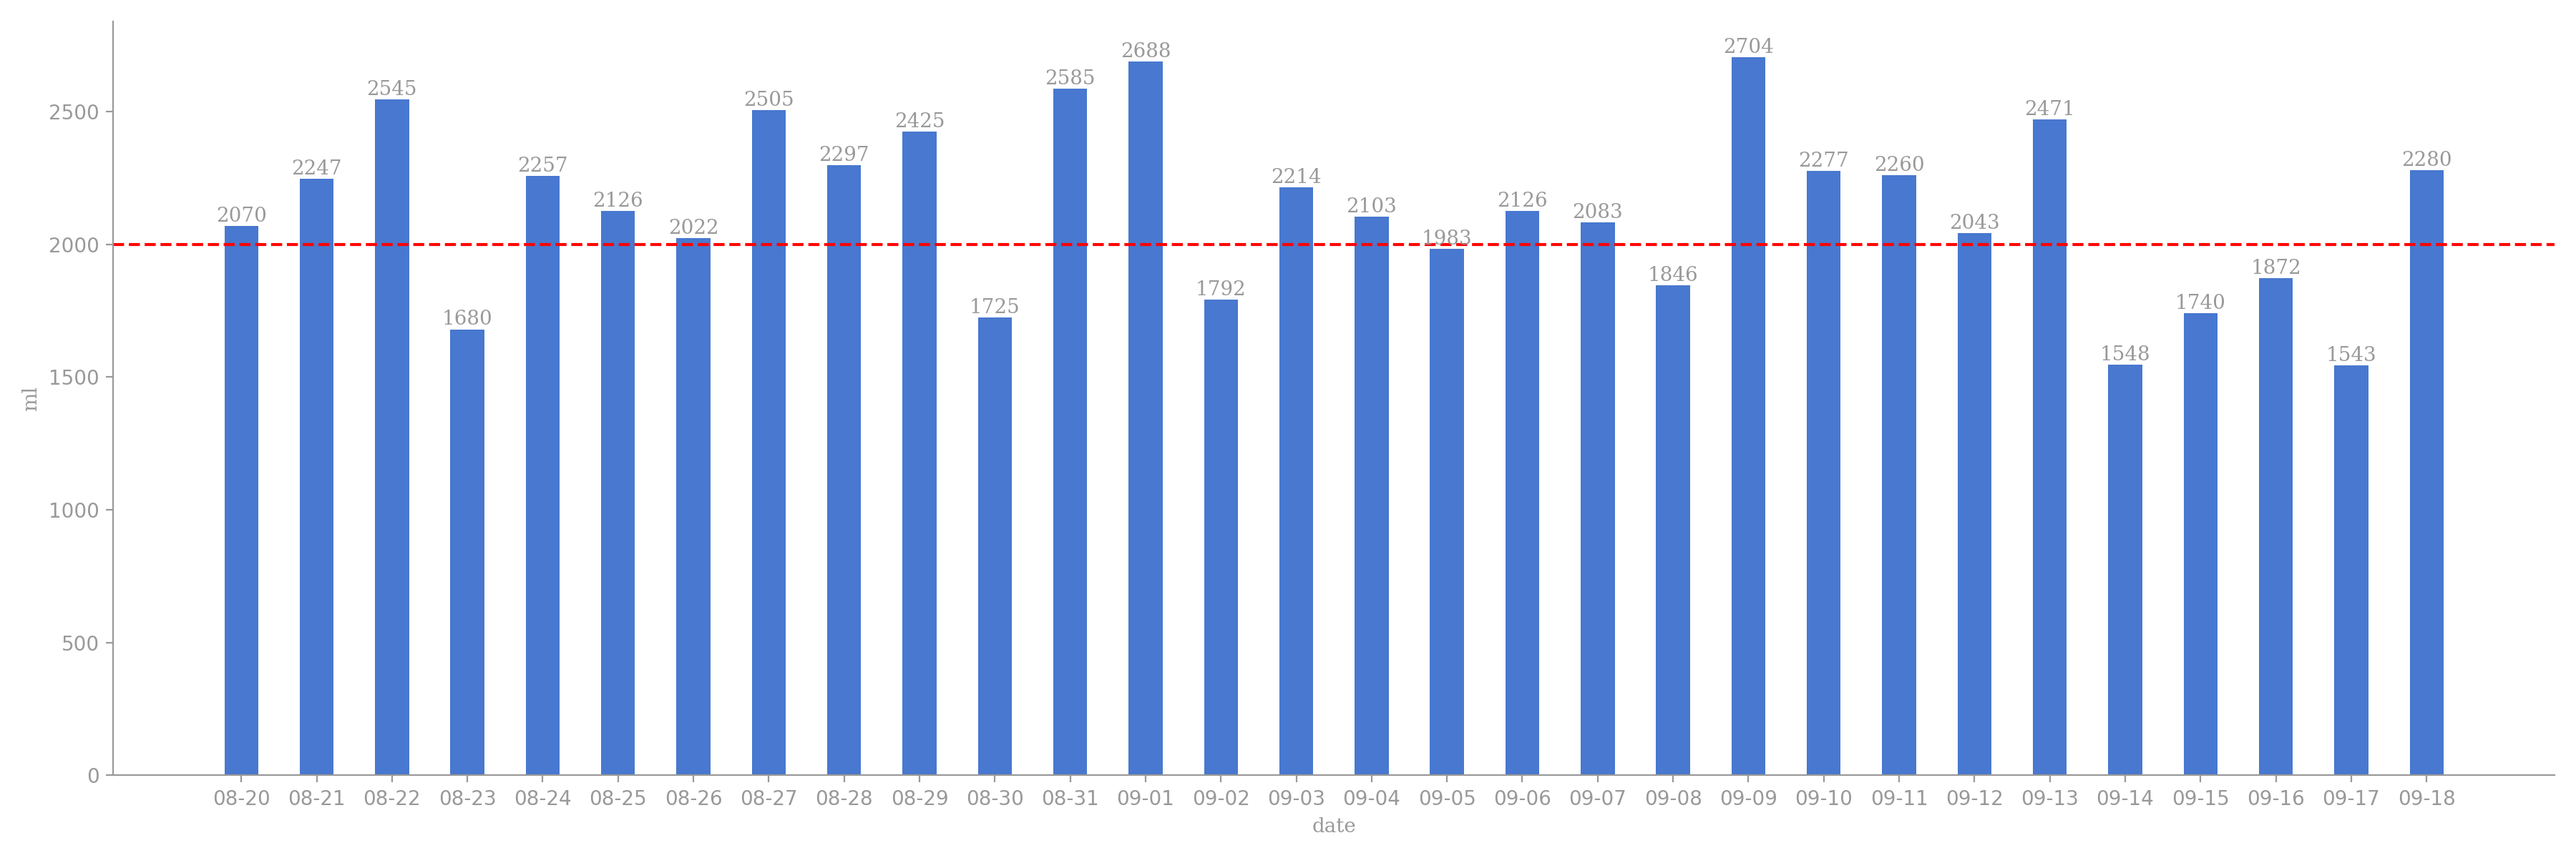
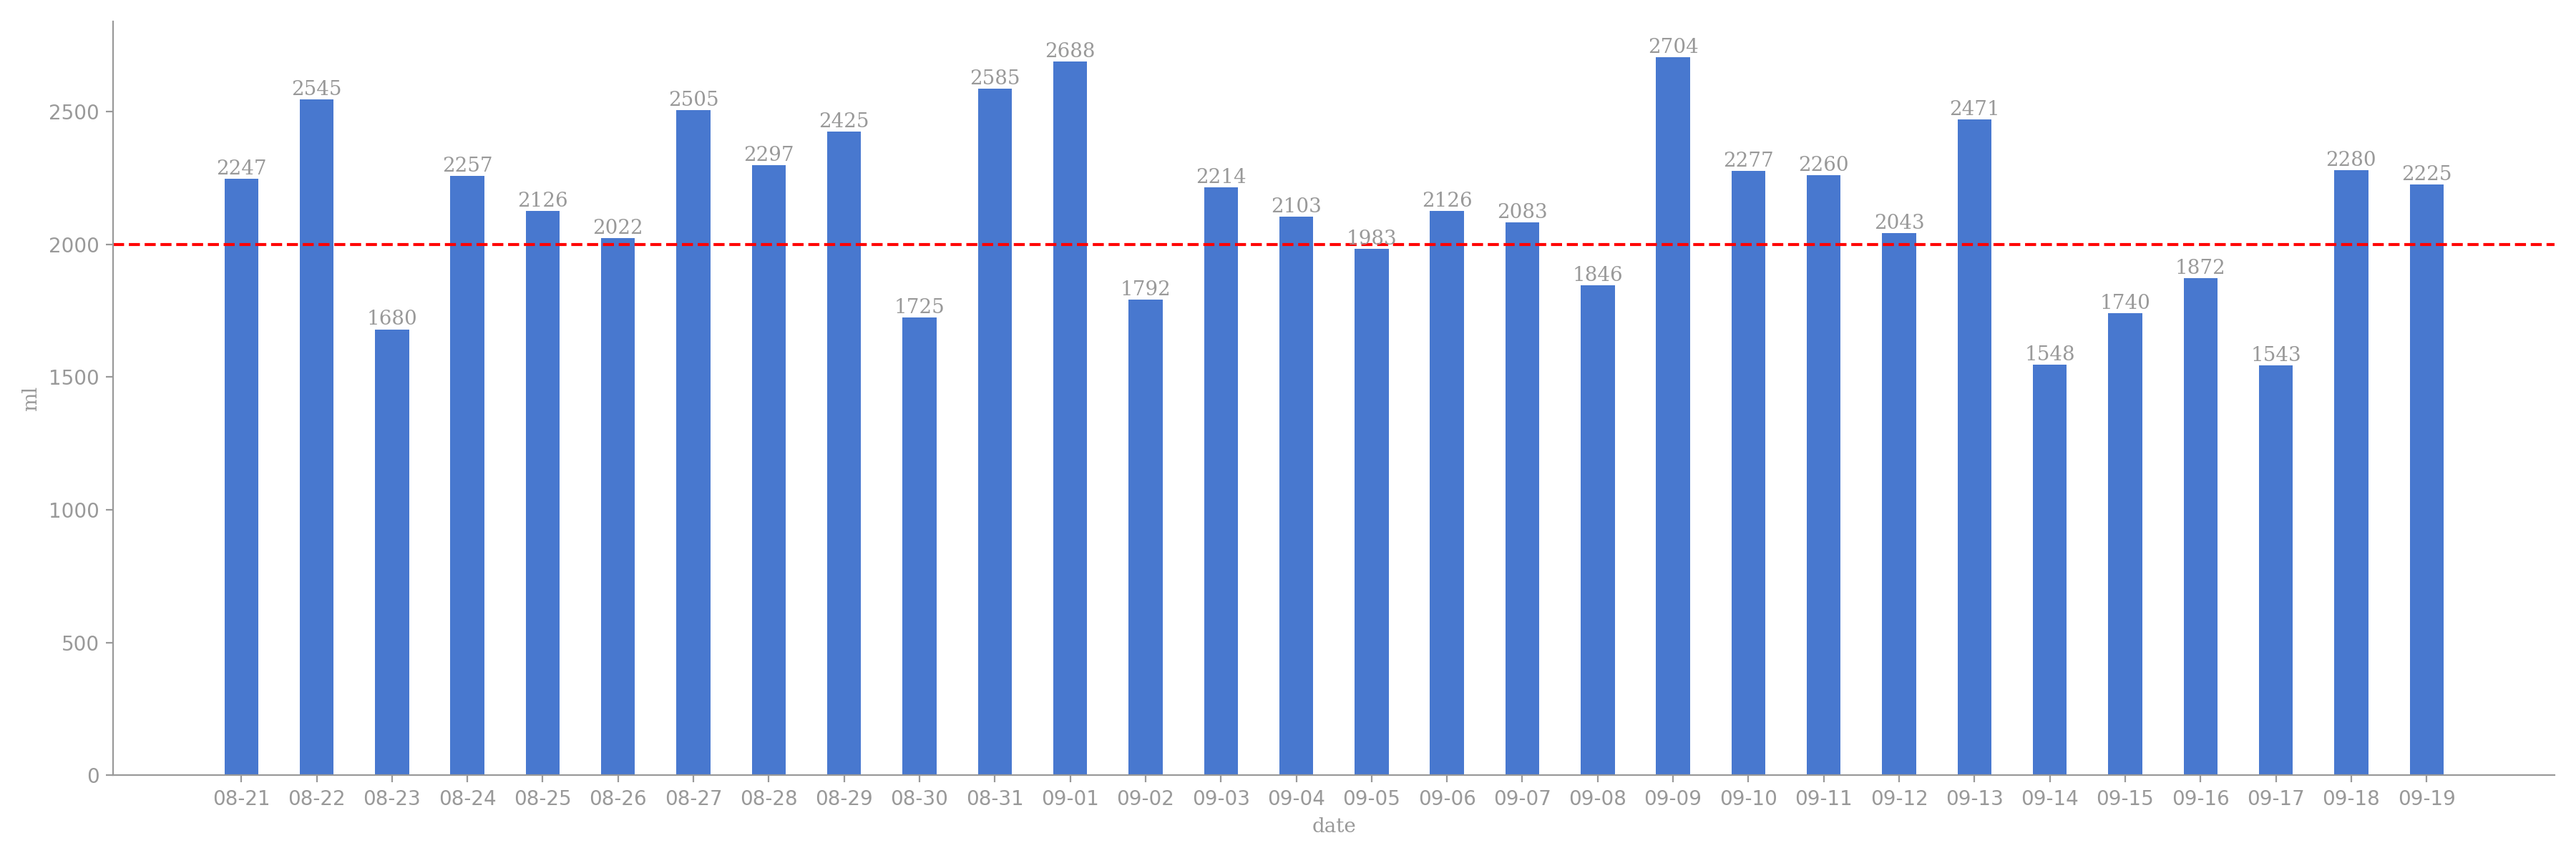
crontab auto git

Changed region(s): [[0.0622, 0.0308, 0.9644, 0.4317]]

diff --git a/README.md b/README.md
@@ -1,17 +1,3 @@
-# 今日饮水数据
-
-<div align=center>
-<img src="today.png" style="zoom: 100%;" />
-
-| 今日总饮水量 | 每小时平均饮水量 |
-| :----: | :----: |
-| 2225 | 139 |
-</div>
-
-| 日期 | 00:00:45 | 00:55:37 | 01:39:22 | 01:40:31 | 02:15:47 | 03:17:15 | 03:54:02 | 08:55:41 | 12:17:53 | 14:00:34 | 14:26:59 | 14:42:25 | 15:20:04 | 16:01:27 | 16:32:37 | 16:56:41 | 17:10:47 | 17:24:15 | 17:48:06 | 18:08:36 | 18:21:23 | 18:42:31 | 19:46:06 | 20:32:43 | 20:45:32 | 21:14:09 | 21:29:16 | 21:57:09 | 22:26:33 | 22:57:14 | 23:31:46 | 23:43:38 |
-| :----: | :----: | :----: | :----: | :----: | :----: | :----: | :----: | :----: | :----: | :----: | :----: | :----: | :----: | :----: | :----: | :----: | :----: | :----: | :----: | :----: | :----: | :----: | :----: | :----: | :----: | :----: | :----: | :----: | :----: | :----: | :----: | :----: |
-| 2026-09-19 | 104 | 88 | 67 | 80 | 67 | 53 | 80 | 77 | 26 | 300 | 78 | 47 | 66 | 77 | 37 | 23 | 67 | 59 | 30 | 67 | 80 | 57 | 38 | 89 | 86 | 67 | 70 | 29 | 36 | 39 | 87 | 54 |
-
 # 近30日饮水数据
 
 <div align=center>
@@ -19,8 +5,12 @@
 
 | 总饮水量 | 日均饮水量 |
 | :----: | :----: |
-| 64057 | 2135 |
+| 64212 | 2140 |
 </div>
+
+| 日期 | all | 00:00:45 | 00:55:37 | 01:39:22 | 01:40:31 | 02:15:47 | 03:17:15 | 03:54:02 | 08:55:41 | 12:17:53 | 14:00:34 | 14:26:59 | 14:42:25 | 15:20:04 | 16:01:27 | 16:32:37 | 16:56:41 | 17:10:47 | 17:24:15 | 17:48:06 | 18:08:36 | 18:21:23 | 18:42:31 | 19:46:06 | 20:32:43 | 20:45:32 | 21:14:09 | 21:29:16 | 21:57:09 | 22:26:33 | 22:57:14 | 23:31:46 | 23:43:38 |
+| :----: | :----: | :----: | :----: | :----: | :----: | :----: | :----: | :----: | :----: | :----: | :----: | :----: | :----: | :----: | :----: | :----: | :----: | :----: | :----: | :----: | :----: | :----: | :----: | :----: | :----: | :----: | :----: | :----: | :----: | :----: | :----: | :----: | :----: |
+| 2026-09-19 | 2225 | 104 | 88 | 67 | 80 | 67 | 53 | 80 | 77 | 26 | 300 | 78 | 47 | 66 | 77 | 37 | 23 | 67 | 59 | 30 | 67 | 80 | 57 | 38 | 89 | 86 | 67 | 70 | 29 | 36 | 39 | 87 | 54 |
 
 | 日期 | all | 00:26:36 | 00:38:44 | 01:33:16 | 01:55:04 | 02:04:23 | 02:20:59 | 03:19:40 | 03:29:24 | 04:16:32 | 07:39:44 | 11:59:54 | 13:00:27 | 13:18:33 | 13:41:51 | 13:56:55 | 14:16:45 | 14:39:53 | 15:18:55 | 15:47:22 | 16:06:27 | 17:00:20 | 18:01:09 | 18:37:34 | 19:09:35 | 19:21:49 | 19:33:46 | 20:13:41 | 21:37:04 | 22:13:29 | 22:33:10 | 23:01:04 | 23:15:31 |
 | :----: | :----: | :----: | :----: | :----: | :----: | :----: | :----: | :----: | :----: | :----: | :----: | :----: | :----: | :----: | :----: | :----: | :----: | :----: | :----: | :----: | :----: | :----: | :----: | :----: | :----: | :----: | :----: | :----: | :----: | :----: | :----: | :----: | :----: |
@@ -141,8 +131,4 @@
 | 日期 | all | 00:01:58 | 00:13:52 | 01:18:00 | 02:21:08 | 03:29:51 | 03:32:01 | 10:17:15 | 10:52:36 | 14:37:45 | 15:27:46 | 15:46:23 | 17:13:25 | 17:34:15 | 18:57:14 | 19:06:35 | 20:01:40 | 20:34:04 | 20:39:33 | 21:38:51 | 22:13:49 | 22:37:48 | 23:00:15 | 23:36:36 |
 | :----: | :----: | :----: | :----: | :----: | :----: | :----: | :----: | :----: | :----: | :----: | :----: | :----: | :----: | :----: | :----: | :----: | :----: | :----: | :----: | :----: | :----: | :----: | :----: | :----: |
 | 2026-08-20 | 2070 | 61 | 79 | 81 | 67 | 70 | 26 | 66 | 67 | 300 | 67 | 33 | 136 | 77 | 73 | 64 | 81 | 52 | 88 | 300 | 86 | 61 | 69 | 66 |
-
-| 日期 | all | 00:01:35 | 00:12:25 | 01:54:13 | 02:16:48 | 03:43:09 | 09:59:24 | 12:55:36 | 13:59:42 | 14:18:16 | 14:32:41 | 15:07:00 | 15:16:00 | 15:47:11 | 16:02:27 | 16:39:59 | 17:08:23 | 17:20:39 | 17:33:57 | 17:41:55 | 17:51:00 | 18:18:12 | 18:29:10 | 18:49:08 | 19:15:04 | 19:56:41 | 20:14:19 | 20:38:03 | 21:47:52 | 21:49:08 | 22:13:56 | 23:13:16 | 23:34:23 |
-| :----: | :----: | :----: | :----: | :----: | :----: | :----: | :----: | :----: | :----: | :----: | :----: | :----: | :----: | :----: | :----: | :----: | :----: | :----: | :----: | :----: | :----: | :----: | :----: | :----: | :----: | :----: | :----: | :----: | :----: | :----: | :----: | :----: | :----: |
-| 2026-08-19 | 2424 | 76 | 87 | 73 | 86 | 67 | 76 | 86 | 300 | 86 | 79 | 68 | 35 | 56 | 88 | 31 | 54 | 49 | 32 | 60 | 67 | 54 | 89 | 32 | 76 | 86 | 62 | 50 | 77 | 89 | 67 | 83 | 103 |
 
